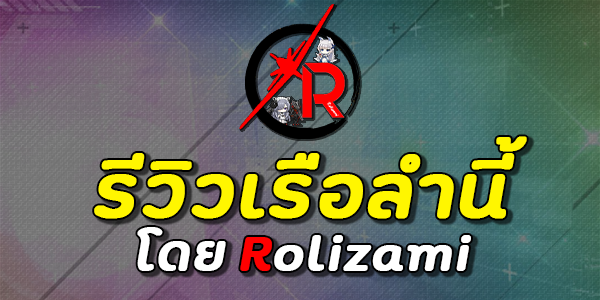
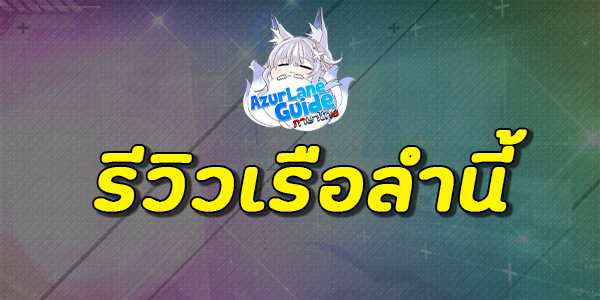
change picture and credit

Changed region(s): [[0.15, 0.0, 0.9, 0.93]]

diff --git a/components/Contact_Card.tsx b/components/Contact_Card.tsx
@@ -23,6 +23,8 @@ export default function Contact_Card (){
             <p className="py-1">History Translator: <Link legacyBehavior href="javascript:void(0);" ><a className="cursor-default px-2 rounded ">MR.T</a></Link></p>
             <p className="py-1">Admin: <Link legacyBehavior href="javascript:void(0);" ><a className="cursor-default px-2 rounded ">EX:SELRENS</a></Link></p>
             <br></br>
+            <p>Cr. Review Ship: <Link legacyBehavior href="https://www.youtube.com/@PGolfSucrim"><a target="_blank" className="px-2 rounded hover:bg-neutral-300 dark:hover:bg-neutral-700">P'GolfSucrim</a></Link></p>
+            <br></br>
             <p>Web Programmer: <Link legacyBehavior href="https://www.youtube.com/@SSTfoxide"><a target="_blank" className="px-2 rounded hover:bg-neutral-300 dark:hover:bg-neutral-700">SSTfoxide</a></Link></p>
             <br></br>
             <p>Framework:  Next.js</p>
